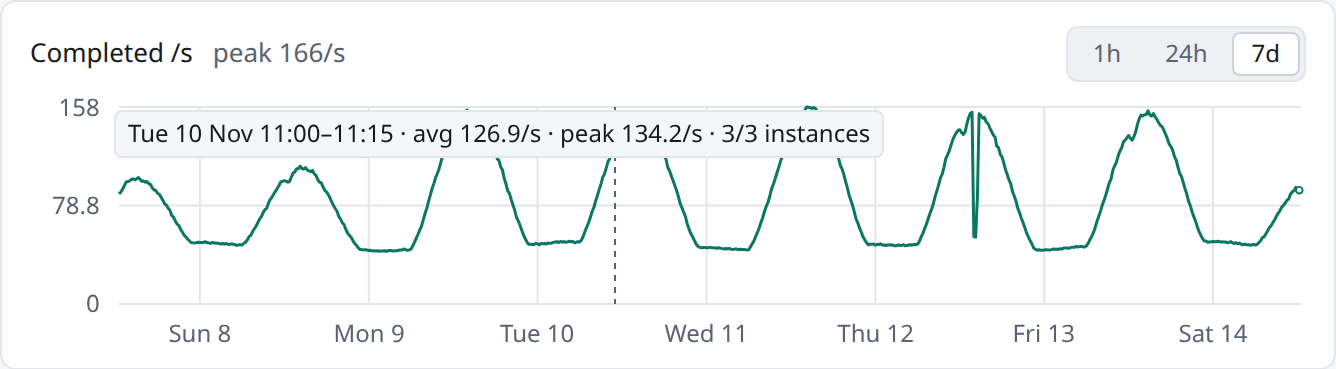
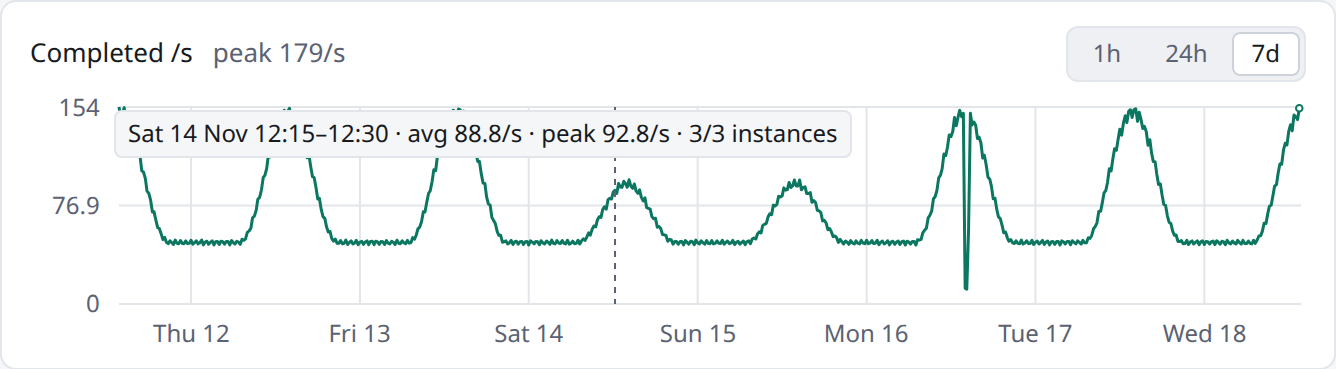
docs: retake dashboard, worker, chart-hover shots
Old shots showed mixed status as 3 inline lines and worker page
"Instances reporting" paragraph. Both replaced (#26, #27).

- dashboard, worker, chart-hover x light/dark; same spec (1280x560,
  DPR 2, full page), same fleet, workers, queues; new 8-day seed
- grid, queues, job, workflow shots unchanged: they show neither
- tour: mixed popover, worker instances list; alt texts match
- DESIGN.md provenance: retake date, rebuilt harness

diff --git a/docs/tour.md b/docs/tour.md
@@ -7,21 +7,23 @@
   <img alt="The vartop dashboard: completed/s, failed/min, pending and workers by status for a server of three instances behind one load balancer, then one row per worker, failing ones first, each with its failed/min and a 10-minute trend" src="images/dashboard-light.png">
 </picture>
 
-One row per worker, merged across every instance (or one instance, from the **Instance** picker), with its status, concurrency, busy and idle workers, pending jobs, failed jobs per minute and a 10-minute trend. **Order** puts trouble first: failing workers, then paused or stopped ones that have pending jobs, then the rest. It can also sort by name, pending or failed. Tick several workers to pause or resume them together. The sidebar says how many instances answered, and here, that three of them answered behind one load-balancer URL.
+One row per worker, merged across every instance (or one instance, from the **Instance** picker), with its status, concurrency, busy and idle workers, pending jobs, failed jobs per minute and a 10-minute trend. **Order** puts trouble first: failing workers, then paused or stopped ones that have pending jobs, then the rest. It can also sort by name, pending or failed. When instances disagree, the status says **mixed**: hover, focus or tap it for each instance's status, in a list that scrolls. Tick several workers to pause or resume them together. The sidebar says how many instances answered, and here, that three of them answered behind one load-balancer URL.
 
 ## Worker page
 
 <picture>
   <source media="(prefers-color-scheme: dark)" srcset="images/worker-dark.png">
-  <img alt="A worker page: completed, successful, failed and success rate; its two sources and the priority strategy; a 7-day completed/s chart with a daily rhythm, quieter weekend days and one short dip; a 24-hour failed/s chart; the concurrency slider and the Pause and Stop buttons" src="images/worker-light.png">
+  <img alt="A worker page: completed, successful, failed and success rate; its two sources and the priority strategy; a 7-day completed/s chart with a daily rhythm, quieter weekend days and one short dip; a 24-hour failed/s chart; its three instances, all running; the concurrency slider and the Pause and Stop buttons" src="images/worker-light.png">
 </picture>
 
 Click a worker for its totals and success rate, its sources, its two charts, and its controls. **Sources** draws the queues and topics that the worker pulls from, in its order, with each one's priority and pending jobs, and says how its strategy picks among them. Each chart has its own span: **1h** from the stored polls, **24h** from 5-minute buckets, and **7d**, **30d** (or the server's own [`history`](configuration.md#schema), like `14d`) merged into longer steps. Hovering a chart shows how many instances answered and, on 1h, the poll's time and value; on longer spans, the exact window, its average and its peak:
 
 <picture>
   <source media="(prefers-color-scheme: dark)" srcset="images/chart-hover-dark.png">
-  <img alt="Hovering the 7-day chart: Tue 10 Nov 11:00–11:15 · avg 126.9/s · peak 134.2/s · 3/3 instances" src="images/chart-hover-light.png">
+  <img alt="Hovering the 7-day chart: Sat 14 Nov 12:15–12:30 · avg 88.8/s · peak 92.8/s · 3/3 instances" src="images/chart-hover-light.png">
 </picture>
+
+Under the charts, the instances that run the worker: how many, with a count per status. **show all** opens one row per instance, trouble first (not reached, absent, stopped, paused), with its status, busy, idle and pending jobs; each name opens that instance's view.
 
 The concurrency slider sets the pool size per instance, applied when you let go; **Pause**, **Resume**, **Restart** and **Stop** act on every instance shown.
 

diff --git a/DESIGN.md b/DESIGN.md
@@ -153,7 +153,7 @@ Stack constraint shapes the system: one Go binary, `html/template` + vendored ht
 - SVG stroke icons (1.5 stroke, round caps), no glyph icons.
 - Mono only for IDs, payloads, errors.
 
-**Imagery and raster provenance.** No generated imagery; the UI has none. `docs/images/*.png` (README and docs shots, dark + light) are headless Chrome captures over CDP: 1280x560 viewport, DPR 2, full page, `prefers-color-scheme` emulated; `chart-hover-*` hovers the first chart at 42% width and clips to it. Subject: `vartop web` (interval 2s, history 7d) on server "demo-cluster": three `fleettest` fake VarMQ instances (orders-api-6f9c-*) behind a round-robin balancer at http://varmq.localhost:8080/varmq. A throwaway Go test seeded 8 days of one-a-minute polls (work-hours hump, quieter weekend, a 40-minute thumbnails dip two days back), then advanced the fakes' counters live; workers billing-sync, emails, reports (paused on instance-2), search-index, thumbnails, webhooks; queues and jobs from `fleettest.SampleJobs`, workflows from `fleettest.SampleWorkflows`. Job and workflow shots taken in the first minute, the rest after 10 minutes of live polls. Captured 2026-11-14.
+**Imagery and raster provenance.** No generated imagery; the UI has none. `docs/images/*.png` (README and docs shots, dark + light) are headless Chrome captures over CDP: 1280x560 viewport, DPR 2, full page, `prefers-color-scheme` emulated; `chart-hover-*` hovers the first chart at 42% width and clips to it. Subject: `vartop web` (interval 2s, history 7d) on server "demo-cluster": three `fleettest` fake VarMQ instances (orders-api-6f9c-*) behind a round-robin balancer at http://varmq.localhost:8080/varmq. A throwaway Go test seeded 8 days of one-a-minute polls (work-hours hump, quieter weekend, a 40-minute thumbnails dip two days back), then advanced the fakes' counters live; workers billing-sync, emails, reports (paused on instance-2), search-index, thumbnails, webhooks; queues and jobs from `fleettest.SampleJobs`, workflows from `fleettest.SampleWorkflows`. Job and workflow shots taken in the first minute, the rest after 10 minutes of live polls. Captured 2026-11-14; dashboard, worker and chart-hover retaken 2026-11-18 (mixed status popover, worker instances list) from a rebuilt harness: same fleet, workers and queues, a new 8-day seed, counters stepped every 100ms.
 
 ## Colors
 
